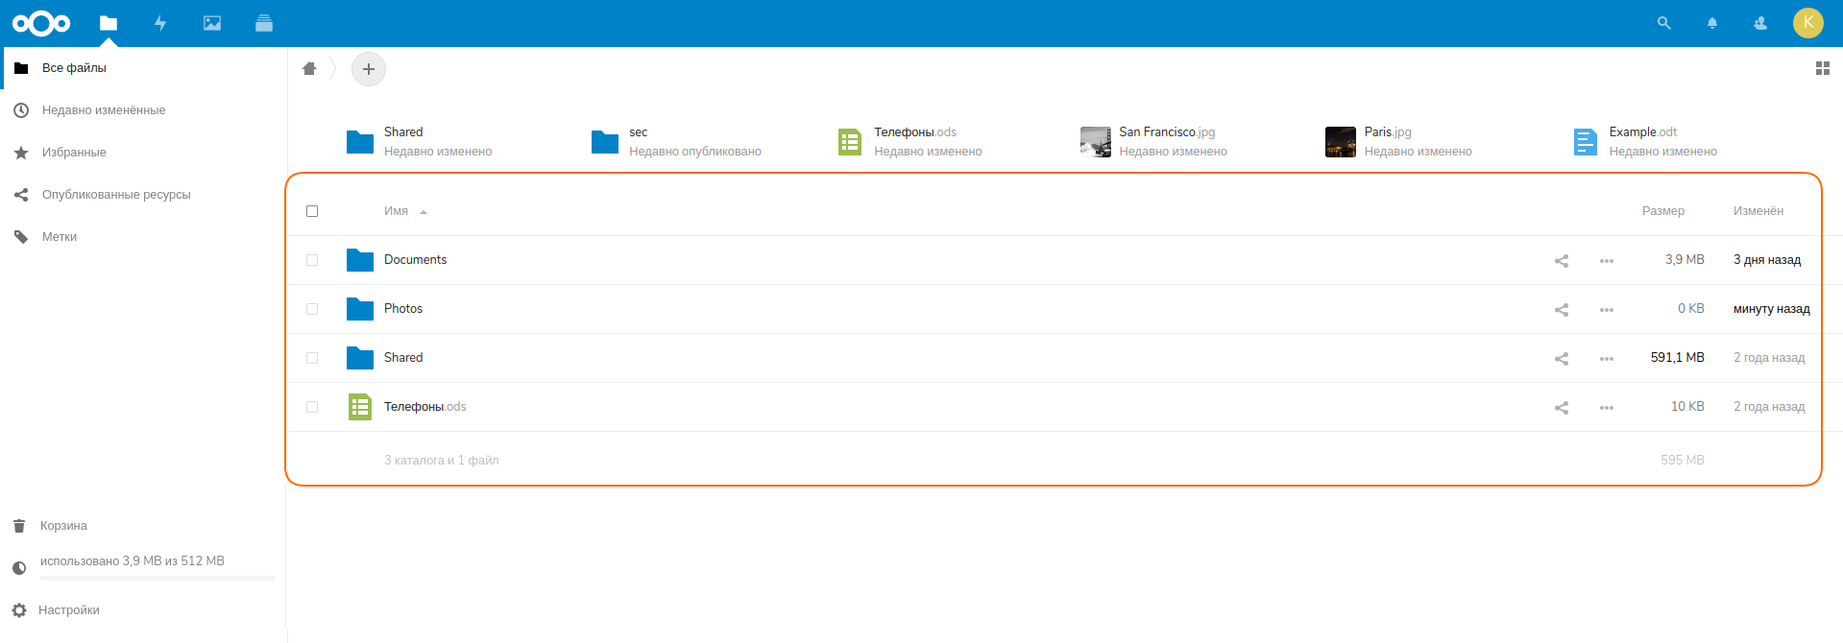
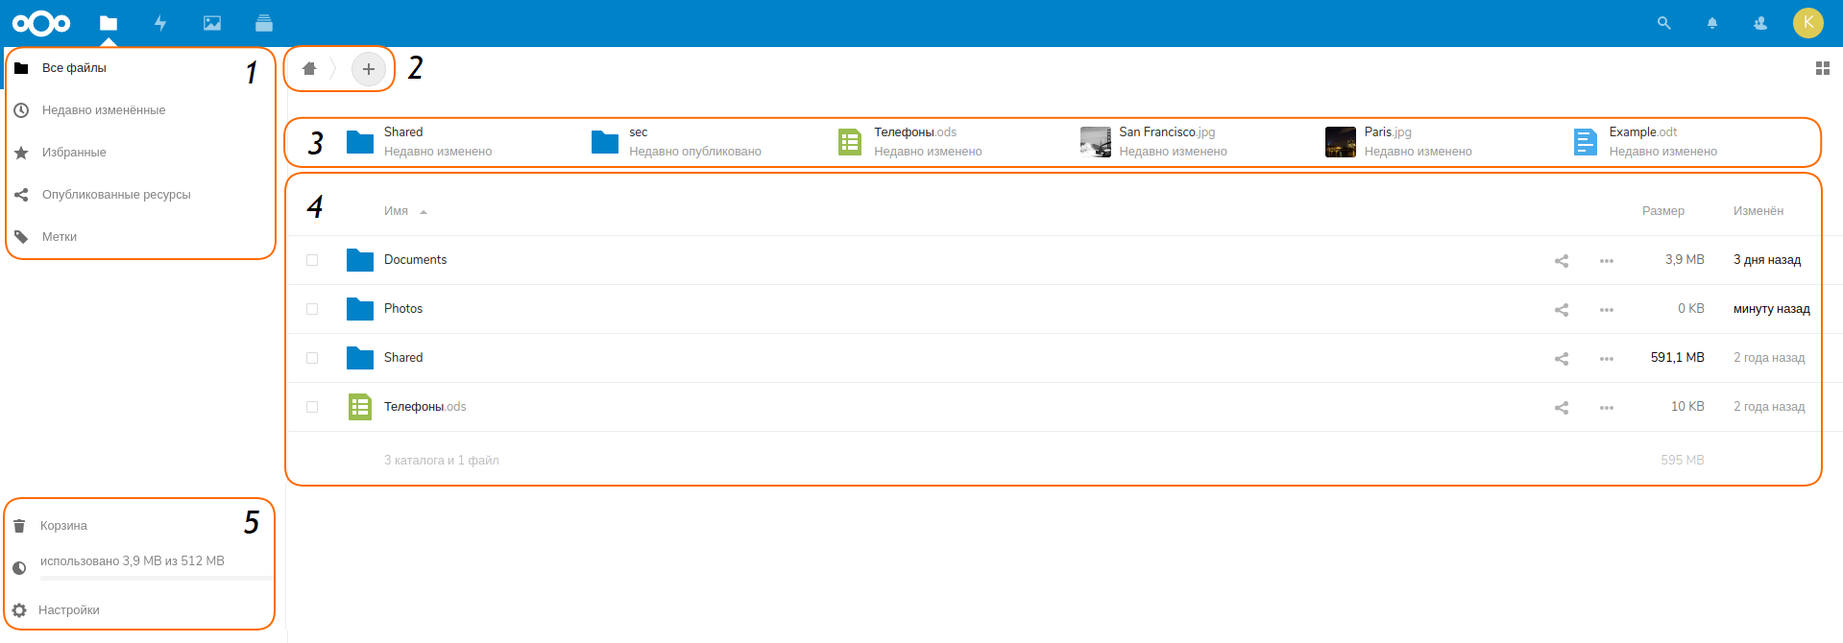
Update

diff --git a/nextcloud.md b/nextcloud.md
@@ -1,10 +1,10 @@
-# Инструкция по пользованию облачным хранилищем NextCloud
-**Целевая аудитория:** сотрудники научного института - учёные, инженеры, работники вспомогательных подразделений.  
-**Назначение инструкции:** научить работать с сетевым хранилищем на основе открытого ПО NextCloud - загружать в него файлы и папки, предоставлять доступ к объектам в хранилище другим сотрудникам.
+# Работа с облачным хранилищем NextCloud. Руководство пользователя
+
+Инструкция предназначена для сотрудников научного института: учёных, инженеров, административных работников. Она объясняет, как работать с сетевым хранилищем на основе открытого ПО NextCloud - загружать в него файлы и папки, удалять их, предоставлять доступ к объектам в хранилище другим сотрудникам.
 
 ## 1. Вход в облачное хранилище
 1.1. Наберите в адресной строке браузера адрес [URL].  
-Вы будете перенаправлены на страницу входа в облачное хранилище:
+Откроется страница входа в облачное хранилище:
 
 ![nextcloud_login](https://github.com/vrbtm/tech_writing/blob/b06711c36e53a3b06018422f2ed0d4fd9433bf2f/img/nextcloud_1.jpg)
 
@@ -13,37 +13,32 @@
 Нажмите на кнопку _Войти_.  
 
 ## 2. Внешний вид облачного хранилища
-2.1. Отобразится следующая страница:
+Отобразится страница со списком ваших папок и файлов. На следующем рисунке обведены и пронумерованы рабочие области:
 
 ![nextcloud_file_view](https://github.com/vrbtm/tech_writing/blob/b06711c36e53a3b06018422f2ed0d4fd9433bf2f/img/nextcloud_2.png)
 
-Обведённая на скриншоте область - список ваших папок и документов.  
-2.2. Другие области с элементами управления обведены и пронумерованы на следующем скриншоте:
-
-![nextcloud_management_area](https://github.com/vrbtm/tech_writing/blob/b06711c36e53a3b06018422f2ed0d4fd9433bf2f/img/nextcloud_3.png)
-
-1) Меню со ссылками на файлы, отсортированными по типу:
+В области (1) находится меню со ссылками на файлы, отсортированными по типу:
 
  - недавно изменённые файлы;
  - файлы и папки, помеченные вами как избранные;
  - опубликованные файлы или папки - те, которыми вы поделились с другими, либо которыми поделились с вами;
- - метки (теги для файлов и папок).
+ - метки (теги для файлов и папок).  
 
-2) В этой области находятся:
+В области (2) находятся кнопки _Домой_ (значок в виде домика, домашняя папка со списком файлов) и  _Добавить_ («+»).  
+В области (3) отображаются последние изменённые файлы.  
+В области (4) - список объектов в домашней папке.  
+В области (5) находятся:
 
  - cсылка на _Корзину_;
- - количество доступного пространства для хранения файлов;
- - меню настроек.  
-
-3) Кнопка _Домой_ (главная страница с документами) и кнопка _Добавить_.  
-4) Последние изменённые документы.
+ - объём доступного пространства для хранения файлов;
+ - ссылка на меню настроек.  
 
 ## 3. Загрузка файла в облачное хранилище
-3.1. Нажмите кнопку «+» над списком ваших документов. Отобразится меню добавления файла или папки:
+3.1. Нажмите кнопку «+» _(Добавить)_ над списком ваших файлов. Отобразится меню добавления файла или папки:
 
 ![nextcloud_add_file](https://github.com/vrbtm/tech_writing/blob/b06711c36e53a3b06018422f2ed0d4fd9433bf2f/img/nextcloud_4.jpg)
 
-3.2. Нажмите на пункт _Загрузить файл_.
+3.2. Нажмите на пункт _Загрузить файл_:
 
 ![nextcloud_load_file](https://github.com/vrbtm/tech_writing/blob/b06711c36e53a3b06018422f2ed0d4fd9433bf2f/img/nextcloud_5.jpg)
 
@@ -59,23 +54,23 @@
 
 ![nextcloud_open_doc](https://github.com/vrbtm/tech_writing/blob/b06711c36e53a3b06018422f2ed0d4fd9433bf2f/img/nextcloud_9.png)
 
-3.6. Теперь в списке файлов отображается загруженный документ:
+3.6. Теперь в списке отображается загруженный файл:
 
 ![nextcloud_doc_loaded](https://github.com/vrbtm/tech_writing/blob/b06711c36e53a3b06018422f2ed0d4fd9433bf2f/img/nextcloud_8.jpg)
 
 
 ## 4. Загрузка папки в хранилище
-Папки загружаются так же, как файлы, но на шаге 3.4 вместо файла следует выбрать нужную папку:
+Папки загружаются так же, как [файлы](https://github.com/vrbtm/tech_writing/blob/main/nextcloud.md#3-%D0%B7%D0%B0%D0%B3%D1%80%D1%83%D0%B7%D0%BA%D0%B0-%D1%84%D0%B0%D0%B9%D0%BB%D0%B0-%D0%B2-%D0%BE%D0%B1%D0%BB%D0%B0%D1%87%D0%BD%D0%BE%D0%B5-%D1%85%D1%80%D0%B0%D0%BD%D0%B8%D0%BB%D0%B8%D1%89%D0%B5), но на шаге 3.4 вместо файла следует выбрать нужную папку:
 
 ![nextcloud_load_folder](https://github.com/vrbtm/tech_writing/blob/b06711c36e53a3b06018422f2ed0d4fd9433bf2f/img/nextcloud_10.png)
  
 
 ## 5. Удаление и восстановление файла
-5.1. Наведите указатель мыши на файл (или папку), который требуется удалить. При этом слева от значка файла отобразится окошко для выделения файла:
+5.1. Наведите указатель мыши на объект, который требуется удалить. При этом слева от значка файла отобразится окошко для выделения:
 
 ![nextcloud_select_file](https://github.com/vrbtm/tech_writing/blob/b06711c36e53a3b06018422f2ed0d4fd9433bf2f/img/nextcloud_11.png)
 
-5.2. Щёлкните левой клавишей мыши в этом окошке. Теперь файл выделен:
+5.2. Щёлкните левой кнопкой мыши в этом окошке. Теперь файл выделен:
 
 ![nextcloud_file_selected](https://github.com/vrbtm/tech_writing/blob/b06711c36e53a3b06018422f2ed0d4fd9433bf2f/img/nextcloud_12.png)
 
@@ -87,19 +82,19 @@
 
 ![nextcloud_delete_file](https://github.com/vrbtm/tech_writing/blob/b06711c36e53a3b06018422f2ed0d4fd9433bf2f/img/nextcloud_14.png)
 
-Теперь файл не отображается в списке ваших документов.
+Теперь файл не отображается в списке.
 
 
 ## 6. Восстановление файлов и папок
-6.1. Если вы хотели бы восстановить удалённый файл (отменить удаление), перейдите в папку _Корзина_:
+6.1. Чтобы восстановить удалённый файл (отменить удаление), перейдите в папку _Корзина_:
 
 ![nextcloud_trash_bin](https://github.com/vrbtm/tech_writing/blob/b06711c36e53a3b06018422f2ed0d4fd9433bf2f/img/nextcloud_15.png)
 
-6.2.Выделите файл, который требуется восстановить, и нажмите кнопку _Восстановить_:
+6.2.Выделите нужный файл и нажмите кнопку _Восстановить_:
  
 ![nextcloud_recover_file](https://github.com/vrbtm/tech_writing/blob/b06711c36e53a3b06018422f2ed0d4fd9433bf2f/img/nextcloud_16.png)
 
-Теперь файл снова отображается в списке ваших документов:
+Теперь файл снова отображается в списке:
 
 ![nextcloud_file_recovered](https://github.com/vrbtm/tech_writing/blob/b06711c36e53a3b06018422f2ed0d4fd9433bf2f/img/nextcloud_8.jpg)
 
@@ -117,7 +112,7 @@
 
 ![nextcloud_download_file](https://github.com/vrbtm/tech_writing/blob/b06711c36e53a3b06018422f2ed0d4fd9433bf2f/img/nextcloud_18.png)
 
-Требуемый файл или папка будут загружены на ваш компьютер в папку, куда у вас обычно загружаются файлы из Интернета.
+Требуемый файл или папка будут загружены на ваш компьютер.
 
 
 ## 8. Предоставление общего доступа к файлу или папке
@@ -125,7 +120,7 @@
 > ВНИМАНИЕ!  
 > Помните, что персональные данные сотрудников, финансовую информацию, тексты договоров и соглашений запрещено передавать третьим лицам за исключением случаев, установленных законом и локальными нормативными актами. Эти данные охраняются 	законами 98-ФЗ «О коммерческой тайне» и 152-ФЗ «О персональных данных».
 
-8.1. Выделите нужный файл в списке:
+8.1. Выделите нужный файл:
 
 ![nextcloud_file_selected](https://github.com/vrbtm/tech_writing/blob/b06711c36e53a3b06018422f2ed0d4fd9433bf2f/img/nextcloud_12.png)
  
@@ -133,7 +128,7 @@
 
 ![nextcloud_share_file](https://github.com/vrbtm/tech_writing/blob/b06711c36e53a3b06018422f2ed0d4fd9433bf2f/img/nextcloud_17.png)
 
-В отобразившемся меню укажите в поле _Имя или адрес e-mail_ служебный адрес электронной почты пользователя, которому хотели бы предоставить доступ к файлу.
+В отобразившемся меню укажите в поле _Имя или адрес e-mail_ служебный адрес электронной почты пользователя, которому хотели бы предоставить доступ к файлу:
 
 ![nextcloud_add_email](https://github.com/vrbtm/tech_writing/blob/b06711c36e53a3b06018422f2ed0d4fd9433bf2f/img/nextcloud_19.png)
 
@@ -145,14 +140,14 @@
 
 ![nextcloud_allow_editing](https://github.com/vrbtm/tech_writing/blob/b06711c36e53a3b06018422f2ed0d4fd9433bf2f/img/nextcloud_21.jpg)
 
-Это означает, что когда вы поделитесь с получателем ссылкой на файл, он сможет его просмотреть.
+Это означает, что получателю ссылки открыт доступ к файлу.
 
-8.4. При необходимости вы можете отметить поле _Разрешить редактировать_.  
-При нажатии значка многоточия в конце строки раскрывается меню со следующими пунктами:  
+8.4. При необходимости вы можете отметить поле _Разрешить редактировать_: пользователь с доступом к файлу (далее "получатель") сможет редактировать файл.  
+Если нажать значок многоточия в конце строки, раскрывается меню со следующими пунктами:  
  
- | Опция                     	| Действие                                                                                                                                              |
+ | Пункт                     	| Действие                                                                                                                                              |
 |---------------------------|-------------------------------------------------------------------------------------------------------------------------------------------------------|
-| Разрешить делиться        	| Если поставить галочку, пользователь, получивший доступ к файлу (далее "получатель"), сможет предоставлять доступ к этому файлу другим пользователям; |
+| Разрешить делиться        	| Если поставить галочку, получатель сможет предоставлять доступ к этому файлу (давать ссылку на него) другим пользователям. |
 | Установить срок действия  	| Если поставить галочку, можно будет указать дату, до которой файл будет доступен по ссылке.                                                          |
 | Примечание для получателя 	| Написать комментарий для получателя.                                                                                                                  |
 | Удалить ссылку            	| Закрыть доступ к файлу.                                                                                                                               |
@@ -167,19 +162,18 @@
 
 ![nextcloud_insert](https://github.com/vrbtm/tech_writing/blob/b06711c36e53a3b06018422f2ed0d4fd9433bf2f/img/nextcloud_24.png)
 
-При нажатии кнопки _Вставить_ ссылка на этот файл будет скопирована в буфер обмена, и вы сможете отправить её по электронной почте, в мессенджере и т.д. Для вставки ссылки нужно щёлкнуть правой кнопкой в поле набора сообщения или создания письма и выбрать пункт _Вставить_.
+При нажатии кнопки _Вставить_ ссылка на этот файл будет скопирована в буфер обмена. Вы сможете отправить её по электронной почте, в мессенджере и т.д. Для вставки ссылки нужно щёлкнуть правой кнопкой мыши в поле набора сообщения или создания письма и выбрать пункт _Вставить_.
 
-8.7. При нажатии значка многоточия откроется меню со следующими пунктами:
+8.7. Если нажать значок многоточия, откроется меню со следующими пунктами:
 
-| Опция                     		| Действие                                                                                                                                              	|
+| Пункт                     		| Действие                                                                                                                                              	|
 |---------------------------		|-------------------------------------------------------------------------------------------------------------------------------------------------------	|
 | Разрешить редактирование  		| Если поставить галочку, получатель сможет редактировать файл.                                                                                         	|
-| Скрыть загрузку           		| Если поставить галочку, кнопка _Загрузить_ у получателя будет скрыта при открытии файла, и скачивание таким образом будет затруднено.                 		|
-| Защитить паролем          		| Если поставить галочку, можно установить пароль на файл.                                                                                              	|
-| Установить срок действия  		| Если поставить галочку, можно будет указать дату, до которой файл будет доступен по ссылке.                                                           	|
+| Скрыть загрузку           		| Если поставить галочку, у получателя при открытии файла будет скрыта кнопка _Загрузить_. Таким образом, скачивание будет затруднено.                 		|
+| Защитить паролем          		| Если поставить галочку, можно защитить файл паролем.                                                                                              	|
+| Установить срок действия  		| Если поставить галочку, можно указать дату, до которой файл будет доступен по ссылке.                                                           	|
 | Примечание для получателя 		| Написать комментарий для получателя.                                                                                                                  		|
 | Удалить ссылку            		| Закрыть доступ к файлу.                                                                                                                               		|
 | Добавить другую ссылку    		| Создать ещё одну ссылку для доступа к этому файлу, чтобы установить для неё другие опции доступа (возможность редактирования, защиту паролем и т.д.). 		|
 
-
-8.8. Получатель, с которым вы поделились ссылкой, получит ссылку на ваш документ или папку.  
+8.8. После выбора нужных свойств доступа отправьте ссылку получателю.  
